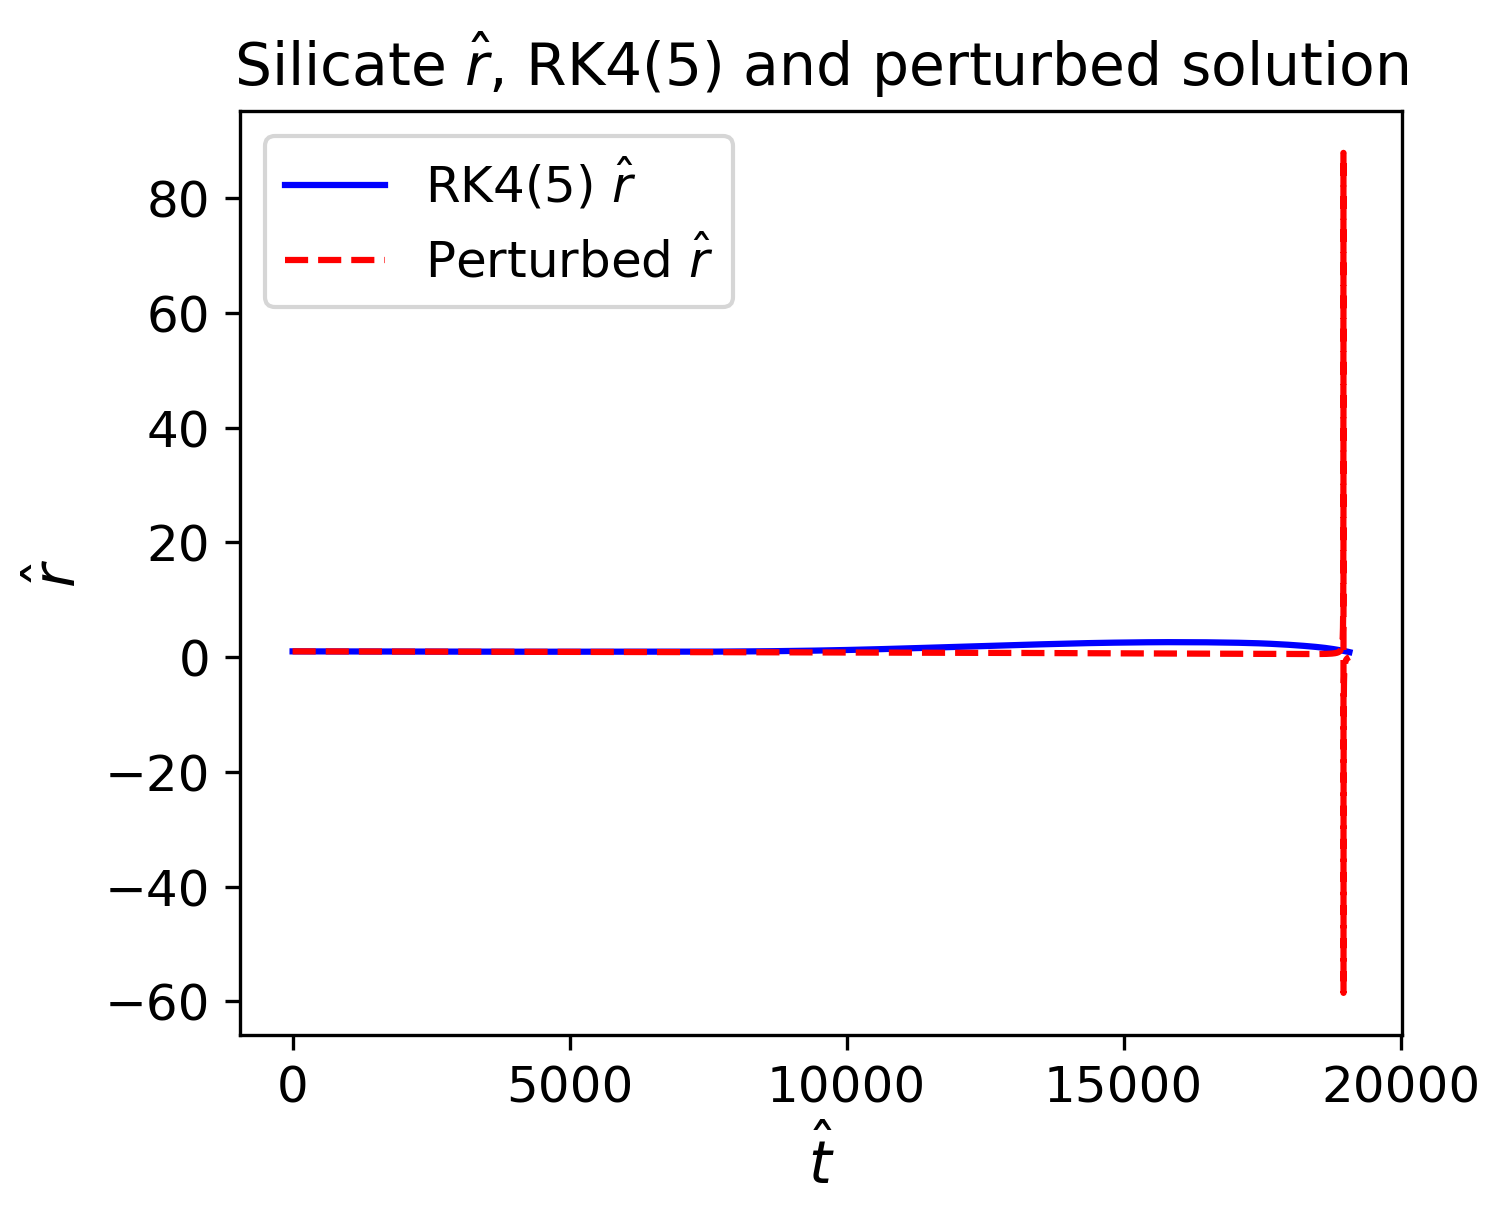
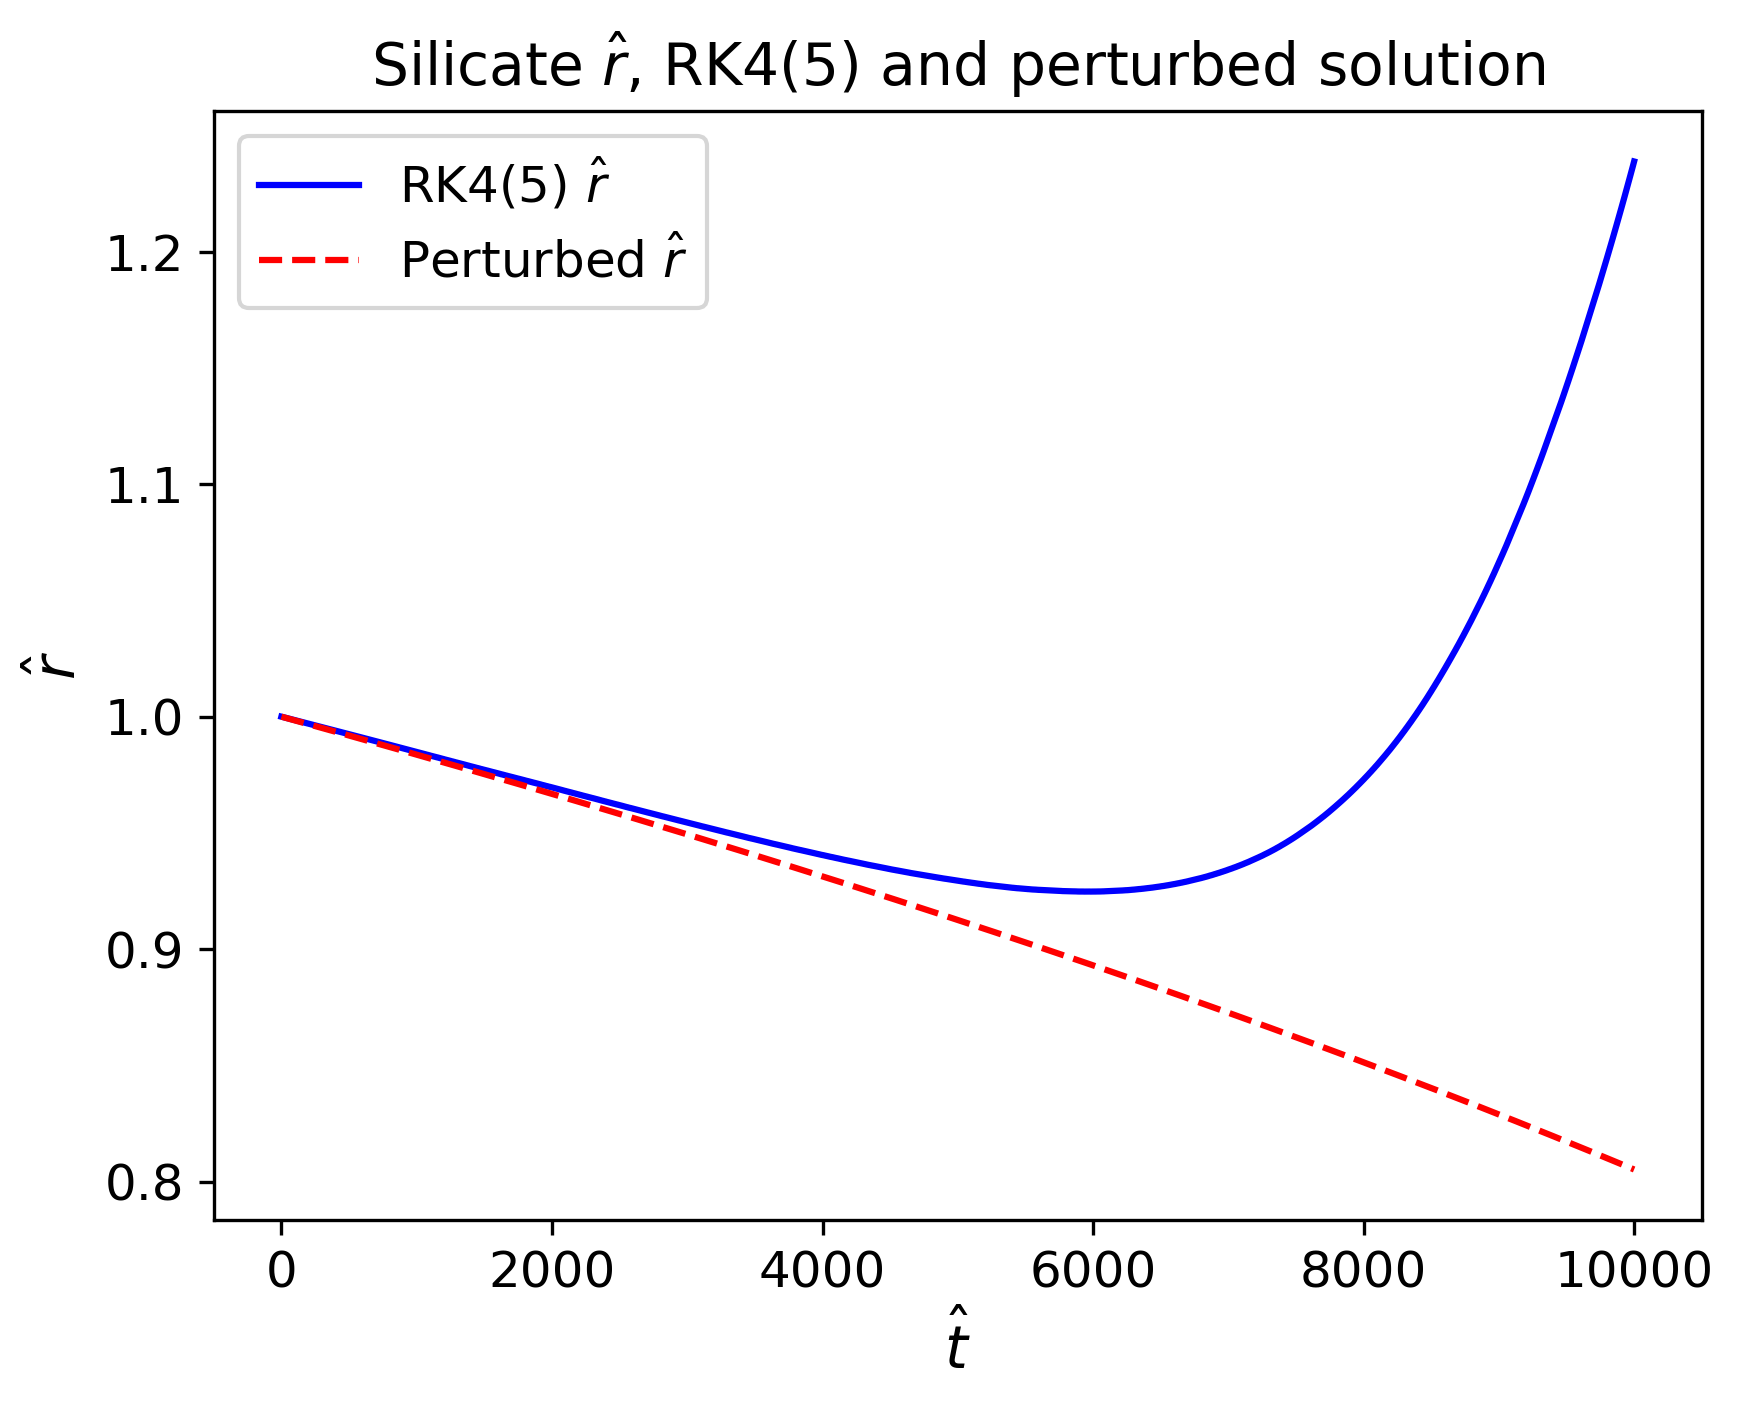
.

diff --git a/plot.py b/plot.py
@@ -45,8 +45,9 @@ def eps_init_betareal():
     
     
     for mat , sw in combs.items():
-
+        plt.figure(figsize = (5 , 4))
         for sw_cond , styles in sw.items():
+            
             size_ranges = (sil_size , sil_betaval) if mat == "silicate" else (car_size_bound , car_betaval_bound)
             par = dust_properties(mat , sw_cond , size = None , size_range = size_ranges)
             init_beta = par.B
@@ -66,7 +67,7 @@ def eps_init_betareal():
         handles, labels = plt.gca().get_legend_handles_labels()
         handles.extend([purple_patch , blue_patch , red_patch , green_patch])    
         plt.loglog()        
-        plt.title(fr"${{\epsilon_0}}$ and ${{\delta}}$ vs B for {mat}")
+        plt.title(fr"{mat.capitalize()}, ${{\epsilon_0}}$ and ${{\delta}}$ vs B")
         plt.xlabel("B")
         plt.ylabel("Value")
         plt.ylim(10**(-9) , 1)
@@ -156,7 +157,7 @@ def rhat_comps(file_path , material , file_path_comp = None , pert = None):
     save_path = f"Plots/{base_name}_r.png"
 
     if pert is not None and file_path_comp is None: #comparing RK4(5) with perturbed rhat
-        plt.figure(figsize = (5 , 4))
+        # plt.figure(figsize = (5 , 4))
         r_per = pert
         t = t[:len(r_per)]
         r = r[:len(r_per)]
@@ -440,6 +441,8 @@ def beta_curves(interp = False , material = "silicate" , comp = False , scaled =
         plt.ylabel(r"$\beta$")
         plt.title(fr"{material.capitalize()} $\beta$ versus particle size")
         plt.legend()
+        rel_fw_err = np.abs(beta - interp(size)) / np.abs(beta)
+        print(rel_fw_err)
         # plt.savefig(f"Plots/{material}_beta_interpolation_curve.png" , dpi = 300 , bbox_inches = 'tight')
         
     
@@ -453,7 +456,7 @@ def beta_curves(interp = False , material = "silicate" , comp = False , scaled =
         plt.ylabel(r"$\beta$")
         plt.title(r"Silicate and carbon, $\beta$ versus particle size")
         plt.legend()
-        # plt.savefig(f"Plots/beta_interpolation_curve_silicate_carbon.png" , dpi = 300 , bbox_inches = 'tight')
+        plt.savefig(f"Plots/beta_interpolation_curve_silicate_carbon.png" , dpi = 300 , bbox_inches = 'tight')
     
     """example scaled curve silicate"""
     if scaled:
@@ -502,7 +505,7 @@ def PR_spu_lifetime():
         tsp_vals["carbon"][sw] = t_sp_car
 
     for mat in material: 
-        fig , ax = plt.subplots()
+        fig , ax = plt.subplots(figsize = (5 , 4))
         size = sil_size if mat == "silicate" else car_size
         pr = tau_sil if mat == "silicate" else tau_car
 
@@ -777,19 +780,21 @@ def eval_sizes():
     plt.show()
 
 if __name__ == "__main__":
-    par = dust_properties("carbon" , "slow" , 1.0 , "A")
-    file_path = "Files/rk45_t6_A_carbon_slowsw.npz"
+    par = dust_properties("silicate" , "CME" , 1.0 , "A")
+    file_path = "Files/rk45_t6_A_silicate_CMEsw.npz"
     res = np.load(file_path)
     x , y , _ , _ , m , b , t , dmdt  = [res[k] for k in ("x" , "y" , "vx" , "vy" , "m" , "b", "t" , "dmdt")]
-
     # PR_spu_lifetime_separate(file = true_lifetime , lifetime_effects = "both")
-    rad , omega0 , beta0 , time = perturbed_functions(par.epsilon * t , par.B , par.K)
+    rad , omega0 , beta0 , time , dbeta0_dt1 = perturbed_functions(par.epsilon * t , par.B , par.K)
 
-    # rhat_comps(file_path , "silicate" , None , rad)
+    rhat_comps(file_path , "silicate" , None , rad)
     # omegahat_comps(file_path , omega0 , "silicate")
-    b_plot(file_path , beta0 , material = "carbon")
-
-
+    # b_plot(file_path , beta0 , material = "carbon")
+    # ecc_math(file_path)
+    # ecc_sc(file_path , par.B)
+    # beta_curves(True , "silicate")
+    # PR_spu_lifetime()
+    # eps_init_betareal()
 
     
 

diff --git a/dust_properties.py b/dust_properties.py
@@ -1,5 +1,6 @@
 from config import (material_files_bound , au , init_vals , rho_s , rho_c , yr , m_s , sil_size ,
-                     sil_betaval , car_betaval_bound , car_size_bound , M_ms , M_mc , mA_S , mA_C , size_to_mass)
+                     sil_betaval , car_betaval_bound , car_size_bound , M_ms , M_mc , mA_S , mA_C 
+                     , size_to_mass , car_betaval , car_size)
 from sputtering_dict import sputter
 from scipy.constants import N_A , G , c
 import numpy as np
@@ -156,25 +157,16 @@ class dust_properties():
         return eps
 
     def K_cst_r(self):
-        Kcst = (1 - self.B)**2 / 6
-
-        tol = 1e-5
-        
-        vals = np.zeros((3 , len(Kcst)))
-
-        for i in range(len(self.K)):
-            
-            if self.K[i] - Kcst[i] < tol:
-                vals[: , i] = [self.K[i] , self.B[i] , self.r[i]]
+        vals = self.r * au**2 / (self.fsw * self.Ytot * self.R**2) #K/(1-B) ratio
 
         return vals
     
 if __name__ == "__main__":
-    
-    par = dust_properties("carbon" , "slow" , 1 , "A")
+    1
+    par = dust_properties("silicate" , "slow" , 1 , "A")
     # par = dust_properties("silicate" , "CME" , size = "large")
-    
-    print(par.epsilon)
+    K = 1 / 3 * (1 - par.B) / (2 * 1 * (1 - par.B * 1))
+    print(par.epsilon )
     
     
     

diff --git a/pert_variable_eps.py b/pert_variable_eps.py
@@ -28,7 +28,7 @@ def perturbed_functions(t , B , K):
 
     y0 = [1.0 , 1.0]
 
-    sol = solve_ivp(rhs , (t[0] , t[-1]), y0, t_eval=t, method="RK45", rtol=1e-9 , atol=1e-12 )
+    sol = solve_ivp(rhs , (t[0] , t[-1]), y0, t_eval=t, method="RK45", rtol=1e-9 , atol=1e-12)
 
     beta0 = sol.y[0]
     C0 = sol.y[1]
@@ -37,18 +37,22 @@ def perturbed_functions(t , B , K):
     r0 = C0**2 * (1 - B) / (1 - B * beta0)
  
     omega0 = C0**(-3) * ((1 - B) / (1 - B * beta0))**(-2)
-    
 
-    return r0 , omega0 , beta0 , sol.t
+    dbeta0_dt1 = beta0**2 / (3 * r0**2)
+
+    return r0 , omega0 , beta0 , sol.t , dbeta0_dt1
 
 if __name__== "__main__":
-    par = dust_properties("silicate" , "slow" , "large")
-    res = np.load("Files/rk45_t6_large_silicate_slowsw.npz")
-    x , y , _ , _ , m , b , t  = [res[k] for k in ("x" , "y" , "vx" , "vy" , "m" , "b", "t")]
+    par = dust_properties("silicate" , "slow" , init_dist = 1.0 , size = "A")
+    res = np.load("Files/rk45_t6_A_silicate_slowsw.npz")
+    x , y , _ , _ , m , b , t , dmdt  = [res[k] for k in ("x" , "y" , "vx" , "vy" , "m" , "b", "t" , "dmdt")]
 
     
-    rad , omega0 , beta0 , time = perturbed_functions(par.epsilon0 * t , par.B , par.K)
-   
+    rad , omega0 , beta0 , time , dbeta0_dt1 = perturbed_functions(par.epsilon * t , par.B , par.K)
+    K = dbeta0_dt1 * (1 - par.B) / (2 * beta0 * (1 - par.B * beta0))
+    # plt.plot(t , K)
+    # plt.show()
     
+    print(beta0)
     
     

diff --git a/particle_class.py b/particle_class.py
@@ -36,6 +36,7 @@ class particle_solver():
         self.V = par.V
         self.T = par.T
         self.K = par.K
+        
         self.delta = par.delta
         self.epsilon = par.epsilon
         self.mhat0 = mhat0
@@ -113,13 +114,13 @@ class particle_solver():
         return pos_and_vel1
 
 if __name__ == "__main__":
-    par = dust_properties("silicate" , "slow" , init_dist = 1 , size = "F")
-    p = particle_solver(t10 , par , "RK45" , massloss = True)
+    par = dust_properties("silicate" , "slow" , init_dist = 1 , size = "E")
+    p = particle_solver(t6 , par , "RK45" , massloss = True)
     vals = p.pos_vel_calcs()
     
     x , y , vx , vy , m , b , t , dmdt = vals[: , 0] , vals[: , 1] , vals[: , 2] , vals[: , 3] , vals[: , 4] , vals[: , 5] , vals[: , 6] , vals[: , 7]
     
-    np.savez("Files/rk45_t6_F_silicate_slowsw.npz" , x = x[::10] , y = y[::10] , vx = vx[::10] , vy = vy[::10] , m = m[::10] , b = b[::10] , t = t[::10] , dmdt = dmdt[::10])
+    np.savez("Files/rk45_t6_E_silicate_slowsw.npz" , x = x[::10] , y = y[::10] , vx = vx[::10] , vy = vy[::10] , m = m[::10] , b = b[::10] , t = t[::10] , dmdt = dmdt[::10])
     
     
 

diff --git a/config.py b/config.py
@@ -76,7 +76,11 @@ init_vals = {"A":{
             "E" : {
                 "r" : 0.07745 * 10**(-6) ,
                 "B" : {"silicate" : 0.5123 , "carbon" : 2.8217}
-            }}
+            } ,
+            "F" : {
+                "r" : 50 * 10**(-6) ,
+                "B" : {"silicate" : 0.0032 , "carbon" : 0.0063}
+            } }
          
 material_files = {"silicate": sil_beta , "carbon": car_beta} #Mapping labels to correct beta values
 

diff --git a/scipy_solver.py b/scipy_solver.py
@@ -85,7 +85,7 @@ def arr_variables(sol , particle_obj , epsilon , massloss = True):
     b = betahat(m , particle_obj)
 
     if massloss:
-        dmdt = sputtering(m, epsilon, x, y)
+        dmdt = sputtering(m , epsilon , x , y)
     else:
         dmdt = np.zeros_like(m)
 